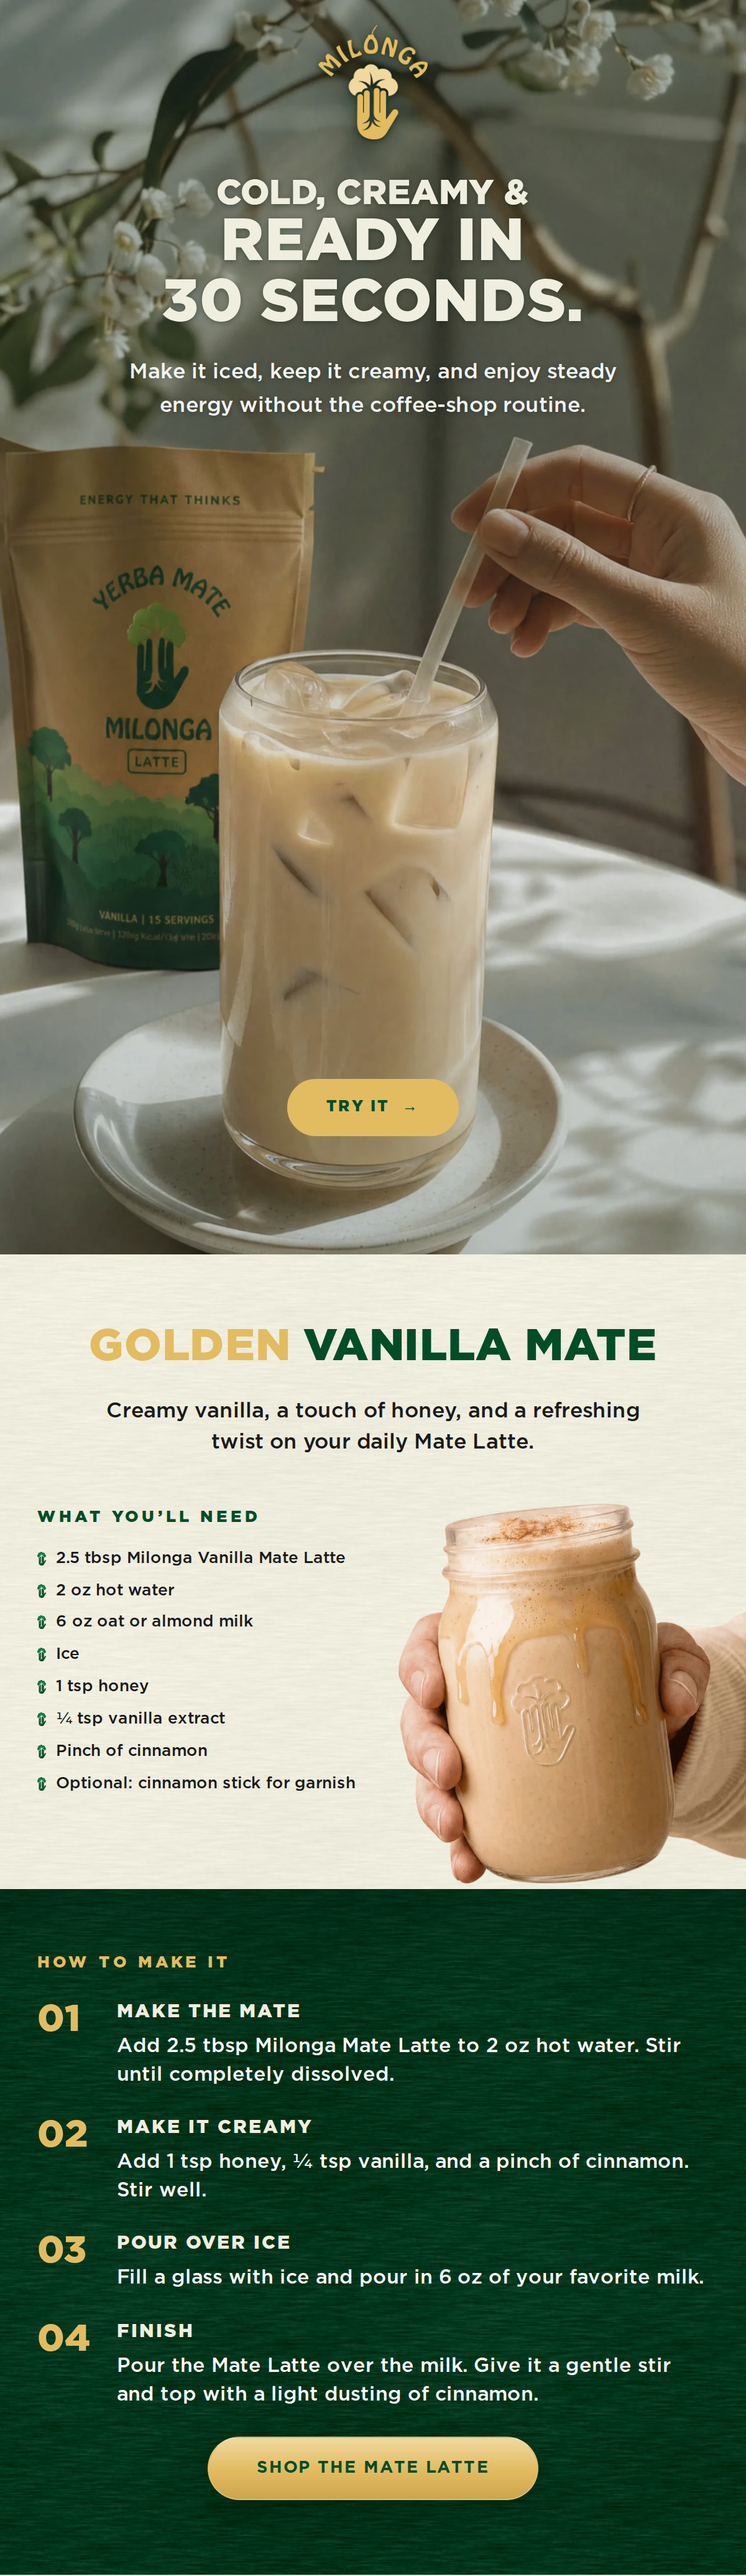
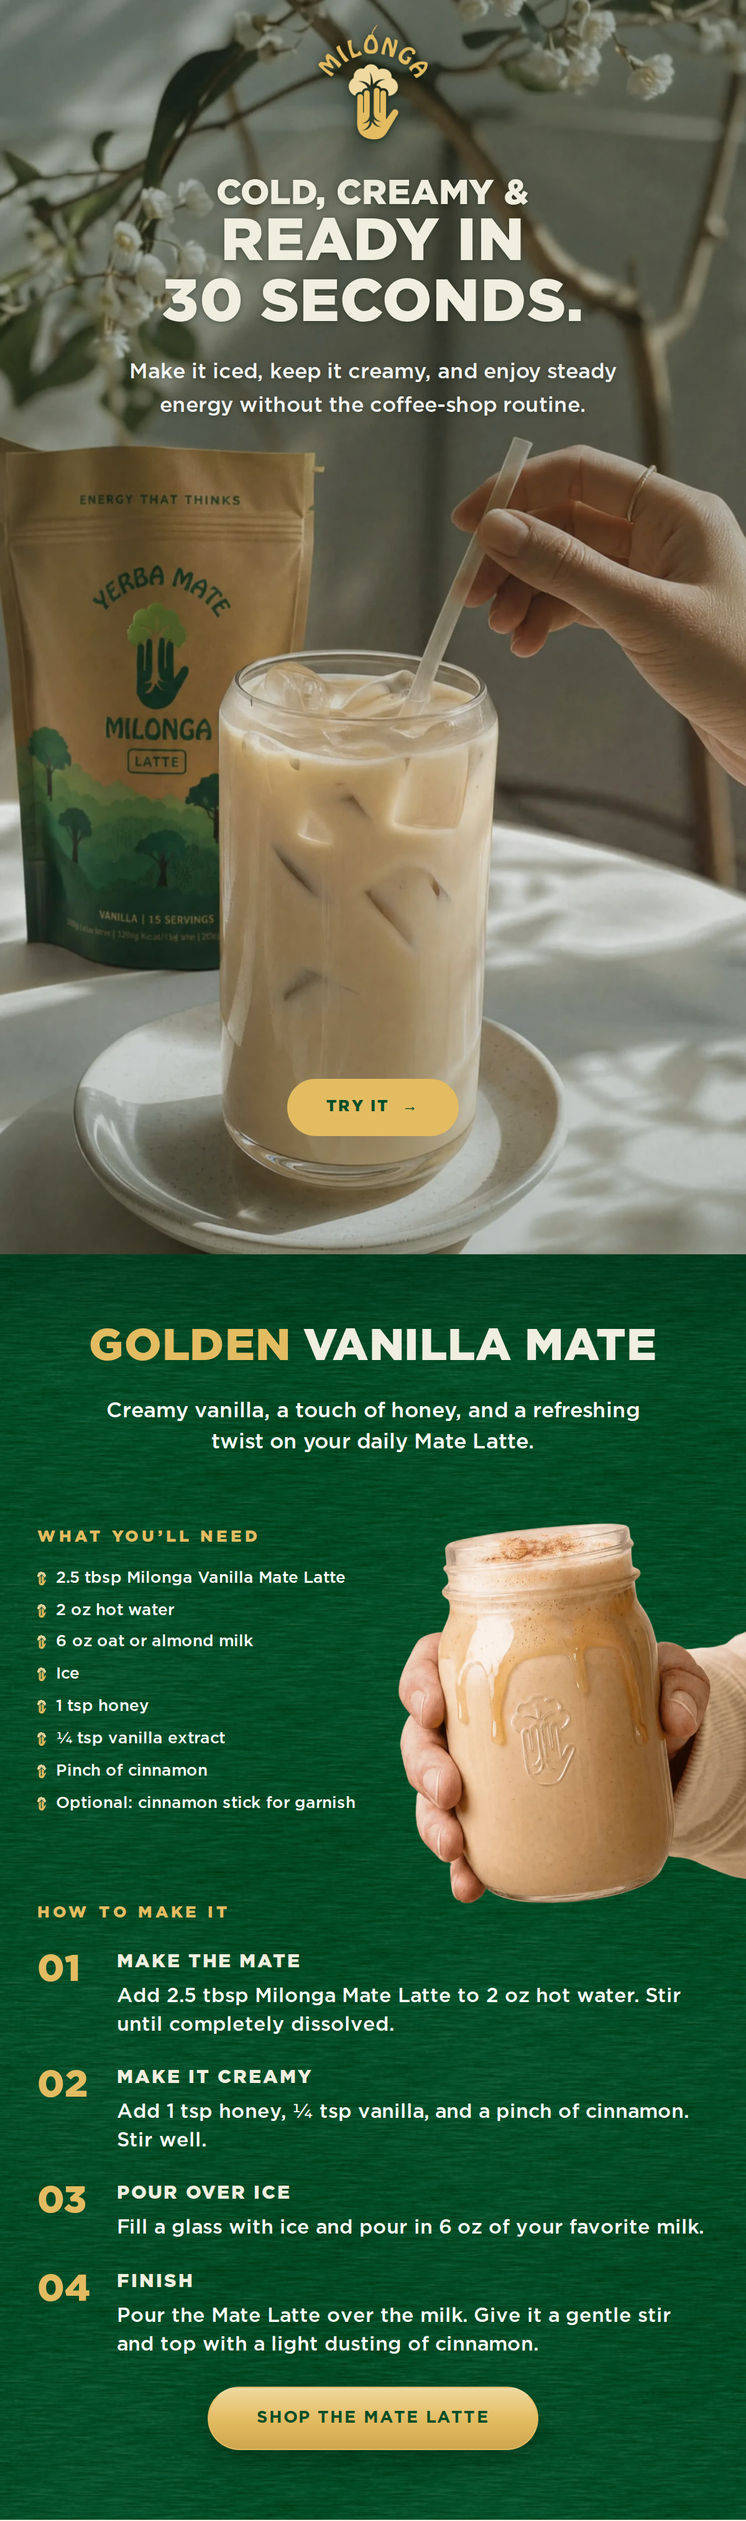
email: one dark ground from the photograph down
The recipe half is no longer beige-then-green — the whole of it is the same
textured forest, so there is one seam in the email rather than two. The tile
is regenerated on the core forest #004D27 instead of forestDeep #00351B,
which is a step lighter and is the palette's own green rather than its
deepest support shade.

THE WHOLE SECTION'S INK MOVES WITH THE GROUND. Title cream with GOLDEN still
gold, intro white, "WHAT YOU'LL NEED" gold to match "HOW TO MAKE IT", the
ingredient list white, and the bullets the GOLD mark instead of the green
one — a green mark on green is invisible, and gold finally has ground under
it. On the beige this section used to sit on, gold measured 1.56:1, which is
exactly why every mark there had to be dark green.

The ingredients row drops 40 -> 56 from the intro above it.

Claude-Session: https://claude.ai/code/session_01NhEtXPnfeCJfN73SqBkUZ5

diff --git a/email-ds/emails/how-to-make-it.jsx b/email-ds/emails/how-to-make-it.jsx
@@ -79,26 +79,37 @@ function HowToMakeIt() {
     }),
 
     // ── 2 · THE RECIPE ────────────────────────────────────────────────────
-    // Beige, textured, and it carries the whole second half: the drink's
-    // name, what goes in it, and how to make it.
+    // ONE GROUND FROM THE PHOTOGRAPH DOWN: this email's own paper grain,
+    // recoloured to the core forest by scripts/make-forest-paper.mjs. It is
+    // not tile-forest, which is a different pattern altogether (the brand
+    // doodle); it is the SAME tile, its grain carried across as a deviation
+    // from the paper's mean rather than as a colour, so the fibre reads
+    // identically and only the hue moves.
     //
-    // ON BEIGE THE INK IS ONE DARK GREEN. Gold measures about 1.5:1 here, so
-    // it is a fill and never type — which is why the bullets are the GREEN
-    // mark rather than the gold one the photographic slides use.
+    // THE INK IS THE DARK-GROUND SET THROUGHOUT: cream titles, white body,
+    // gold eyebrows, gold numerals, gold bullets. Gold finally has ground
+    // under it — on the beige this section used to sit on it measured
+    // 1.56:1, which is why every mark there had to be dark green instead.
+    //
     // overflow hidden. The jar runs past the right edge on purpose, and
     // without a clip here that overflow widened the whole page: the export
     // came out 1300 wide instead of 1200, with 100 units of the page's own
     // forest showing down the right-hand side.
-    h('div', { style: { ...M.bgStyle('beige', M.bgFill.beige, true), padding: '56px 30px 56px',
+    h('div', { style: {
+      backgroundColor: '#004D27',
+      backgroundImage: 'linear-gradient(180deg, rgba(0,26,13,0.34) 0%, rgba(0,26,13,0) 96px), url(../public/brand/textures/tile-paper-forest.jpg)',
+      backgroundSize: 'auto, 320px 320px',
+      backgroundRepeat: 'no-repeat, repeat',
+      padding: '56px 30px 56px',
       position: 'relative', overflow: 'hidden' } },
 
       h('div', { style: { textAlign: 'center' } },
         h('div', { style: { fontFamily: 'Gotham, Montserrat, sans-serif', fontWeight: 900,
           fontSize: 36, letterSpacing: '0.01em', textTransform: 'uppercase',
-          lineHeight: 1.02, color: '#004D27' } },
+          lineHeight: 1.02, color: '#F0EFDF' } },
           h('span', { style: { color: '#E3BC62' } }, 'Golden'), ' Vanilla Mate'),
         h('div', { style: { fontFamily: 'Gotham, Montserrat, sans-serif', fontWeight: 500,
-          fontSize: 17, lineHeight: 1.5, color: '#1A1A1A', maxWidth: 440,
+          fontSize: 17, lineHeight: 1.5, color: '#FFFFFF', maxWidth: 440,
           margin: '20px auto 0' } },
           'Creamy vanilla, a touch of honey, and a refreshing twist on your daily Mate Latte.'),
       ),
@@ -120,11 +131,11 @@ function HowToMakeIt() {
       // 15 is one step under the system's 16 body floor. Flagged rather than
       // taken quietly: it is a spec list of short phrases, not running copy,
       // and it is the only type in either email below the floor.
-      h('div', { style: { position: 'relative', marginTop: 40, minHeight: 250 } },
+      h('div', { style: { position: 'relative', marginTop: 56, minHeight: 250 } },
         h('div', { style: { width: 272 } },
           h('div', { style: { fontFamily: 'Gotham, Montserrat, sans-serif', fontWeight: 900,
             fontSize: 13, letterSpacing: '0.2em', textTransform: 'uppercase',
-            color: '#004D27', marginBottom: 16 } }, 'What you’ll need'),
+            color: '#E3BC62', marginBottom: 16 } }, 'What you’ll need'),
           [
             '2.5 tbsp Milonga Vanilla Mate Latte',
             '2 oz hot water',
@@ -136,10 +147,10 @@ function HowToMakeIt() {
             'Optional: cinnamon stick for garnish',
           ].map((t, i) => h('div', { key: i,
             style: { display: 'flex', alignItems: 'flex-start', gap: 8, marginBottom: 7 } },
-            h('img', { src: '../public/logo/mark-green.png', alt: '',
+            h('img', { src: '../public/logo/mark-gold.png', alt: '',
               style: { height: 11, width: 'auto', flex: 'none', display: 'block', marginTop: 3 } }),
             h('span', { style: { fontFamily: 'Gotham, Montserrat, sans-serif', fontWeight: 500,
-              fontSize: 13, lineHeight: 1.45, color: '#1A1A1A' } }, t),
+              fontSize: 13, lineHeight: 1.45, color: '#FFFFFF' } }, t),
           )),
         ),
         // The supplied cutout, trimmed to its own subject — the file carried
@@ -154,35 +165,9 @@ function HowToMakeIt() {
                    height: 'auto', display: 'block', zIndex: 1 } }),
       ),
 
-    ),
-
-    // ── 3 · THE METHOD, ON THE DARK GROUND ────────────────────────────────
-    // The transition is not a band any more — it is where the email changes
-    // ground and stays changed. Everything from here down sits on the SAME
-    // paper grain, recoloured to the palette's deep green by
-    // scripts/make-forest-paper.mjs. It is not tile-forest, which is a
-    // different pattern altogether (the brand doodle); it is this email's own
-    // tile, so the fibre reads identically and only the colour moves.
-    //
-    // THE INK REVERSES WITH IT, on the contrast map's terms. Dark green takes
-    // cream titles and white body; the eyebrow and the numerals keep the gold
-    // they were given, which on this ground is a strong accent rather than
-    // the 1.56:1 it measured on beige. The button inverts too — gold fill,
-    // forest label — where on cream it was forest fill with cream label.
-    //
-    // A soft edge was the obvious move and the wrong one: the brief asks the
-    // change to read, and a gradient into beige reads as nothing. The depth
-    // comes from the grain and from a short darkening under the seam.
-    h('div', { style: {
-      backgroundColor: '#00351B',
-      backgroundImage: 'linear-gradient(180deg, rgba(0,26,13,0.34) 0%, rgba(0,26,13,0) 96px), url(../public/brand/textures/tile-paper-forest.jpg)',
-      backgroundSize: 'auto, 320px 320px',
-      backgroundRepeat: 'no-repeat, repeat',
-      padding: '52px 30px 60px' } },
-
       // THE METHOD. Four steps, numbered, set left — an ordered process is
       // the one place where a step's position matters as much as its name.
-      h('div', { style: { textAlign: 'left' } },
+      h('div', { style: { marginTop: 52, textAlign: 'left' } },
         h('div', { style: { fontFamily: 'Gotham, Montserrat, sans-serif', fontWeight: 900,
           fontSize: 13, letterSpacing: '0.2em', textTransform: 'uppercase',
           color: '#E3BC62', marginBottom: 22 } }, 'How to make it'),
